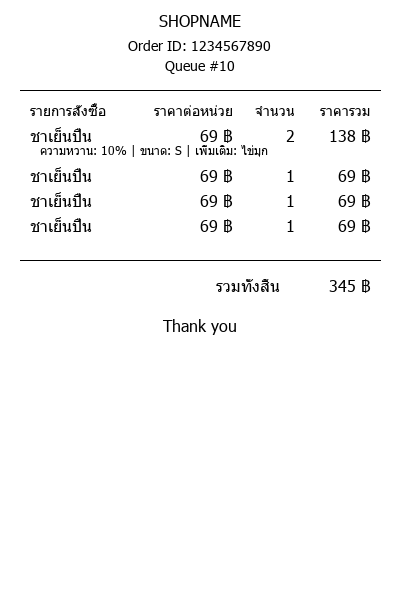
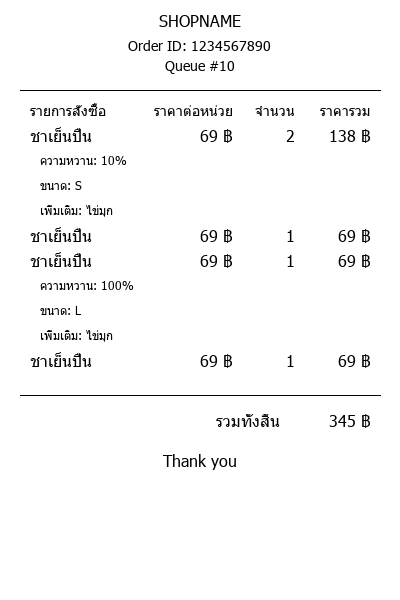
format

diff --git a/slip_image.py b/slip_image.py
@@ -51,16 +51,22 @@ def create_receipt_image(data):
             if len(item) > 3:
                 details = []
                 if len(item) > 3 and item[3]:  # Sweetness
+                    y_pos += 25
                     details.append(f"ความหวาน: {item[3]}")
+                    draw.text((40, y_pos), details[0], font=detail_font, fill='black', anchor='lm')
                 if len(item) > 4 and item[4]:  # Size
+                    y_pos += 25
                     details.append(f"ขนาด: {item[4]}")
+                    draw.text((40, y_pos), details[1], font=detail_font, fill='black', anchor='lm')
                 if len(item) > 5 and item[5]:  # Addon
+                    y_pos += 25
                     details.append(f"เพิ่มเติม: {item[5]}")
+                    draw.text((40, y_pos), details[2], font=detail_font, fill='black', anchor='lm')
                 
-                if details:
-                    detail_text = " | ".join(details)
-                    y_pos += 15
-                    draw.text((40, y_pos), detail_text, font=detail_font, fill='black', anchor='lm')
+                # if details:
+                #     detail_text = " | ".join(details)
+                #     y_pos += 15
+                #     draw.text((40, y_pos), detail_text, font=detail_font, fill='black', anchor='lm')
             
             y_pos += 25
         
@@ -96,7 +102,7 @@ if __name__ == "__main__":
         "order": [
             [2, "ชาเย็นปืน", 69, "10%", "S", "ไข่มุก"],
             [1, "ชาเย็นปืน", 69, None,None,None],
-            [1, "ชาเย็นปืน", 69],
+            [1, "ชาเย็นปืน", 69,"100%","L","ไข่มุก"],
             [1, "ชาเย็นปืน", 69]
         ]
     }
